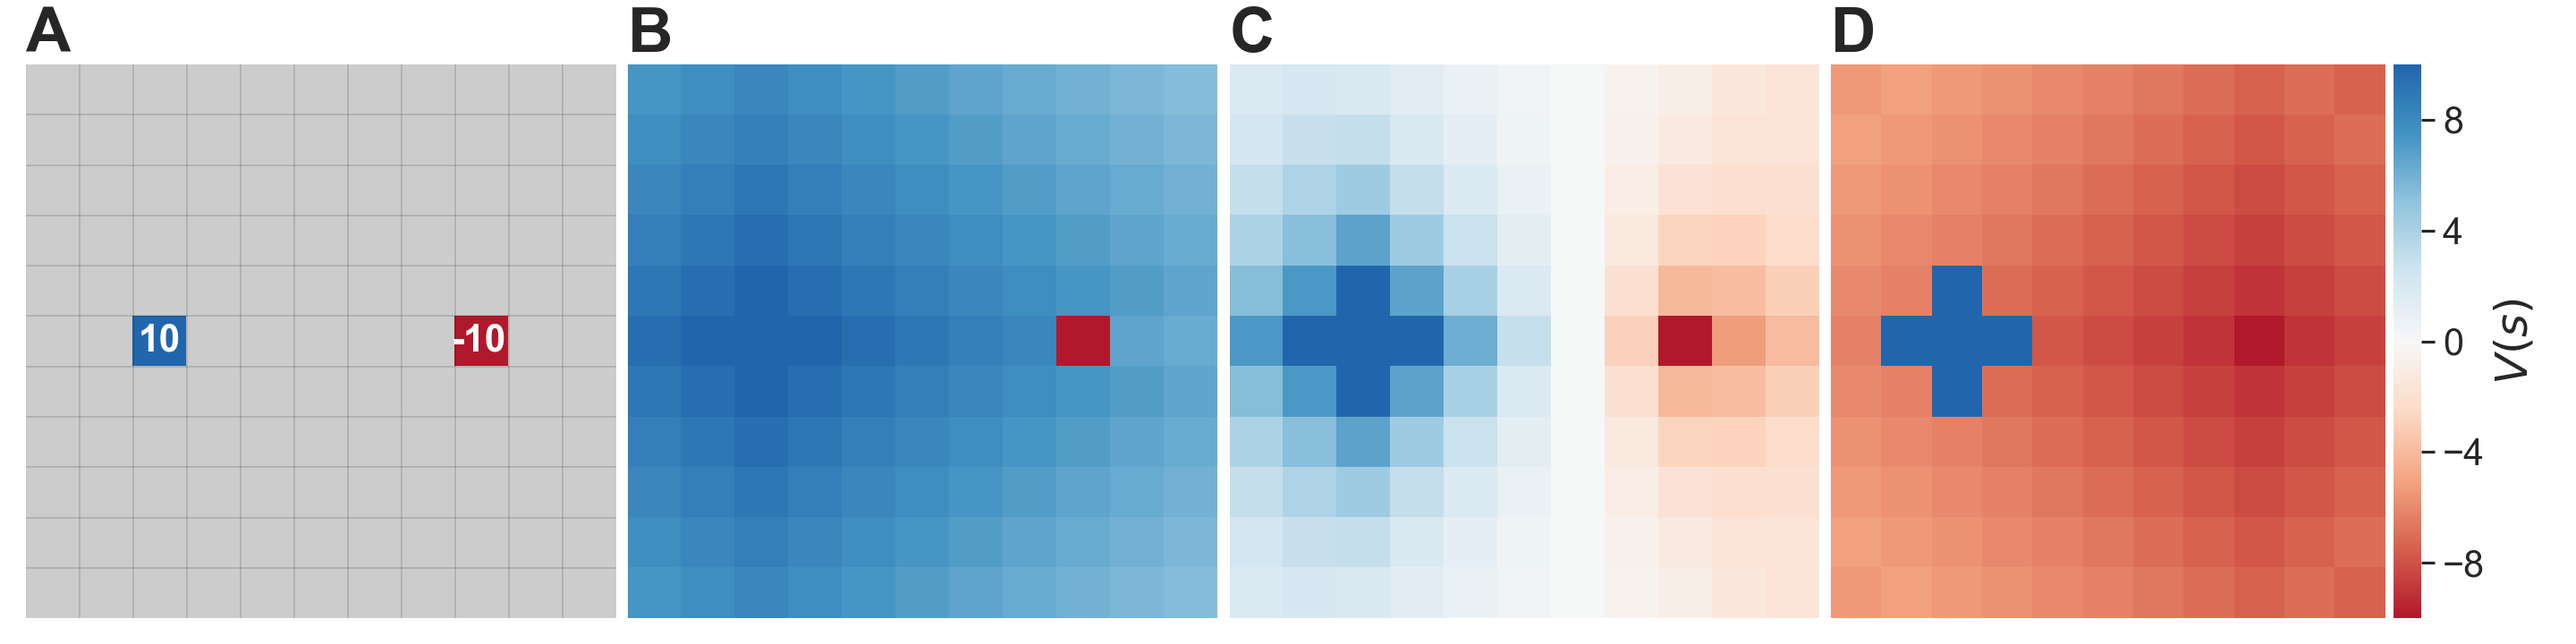
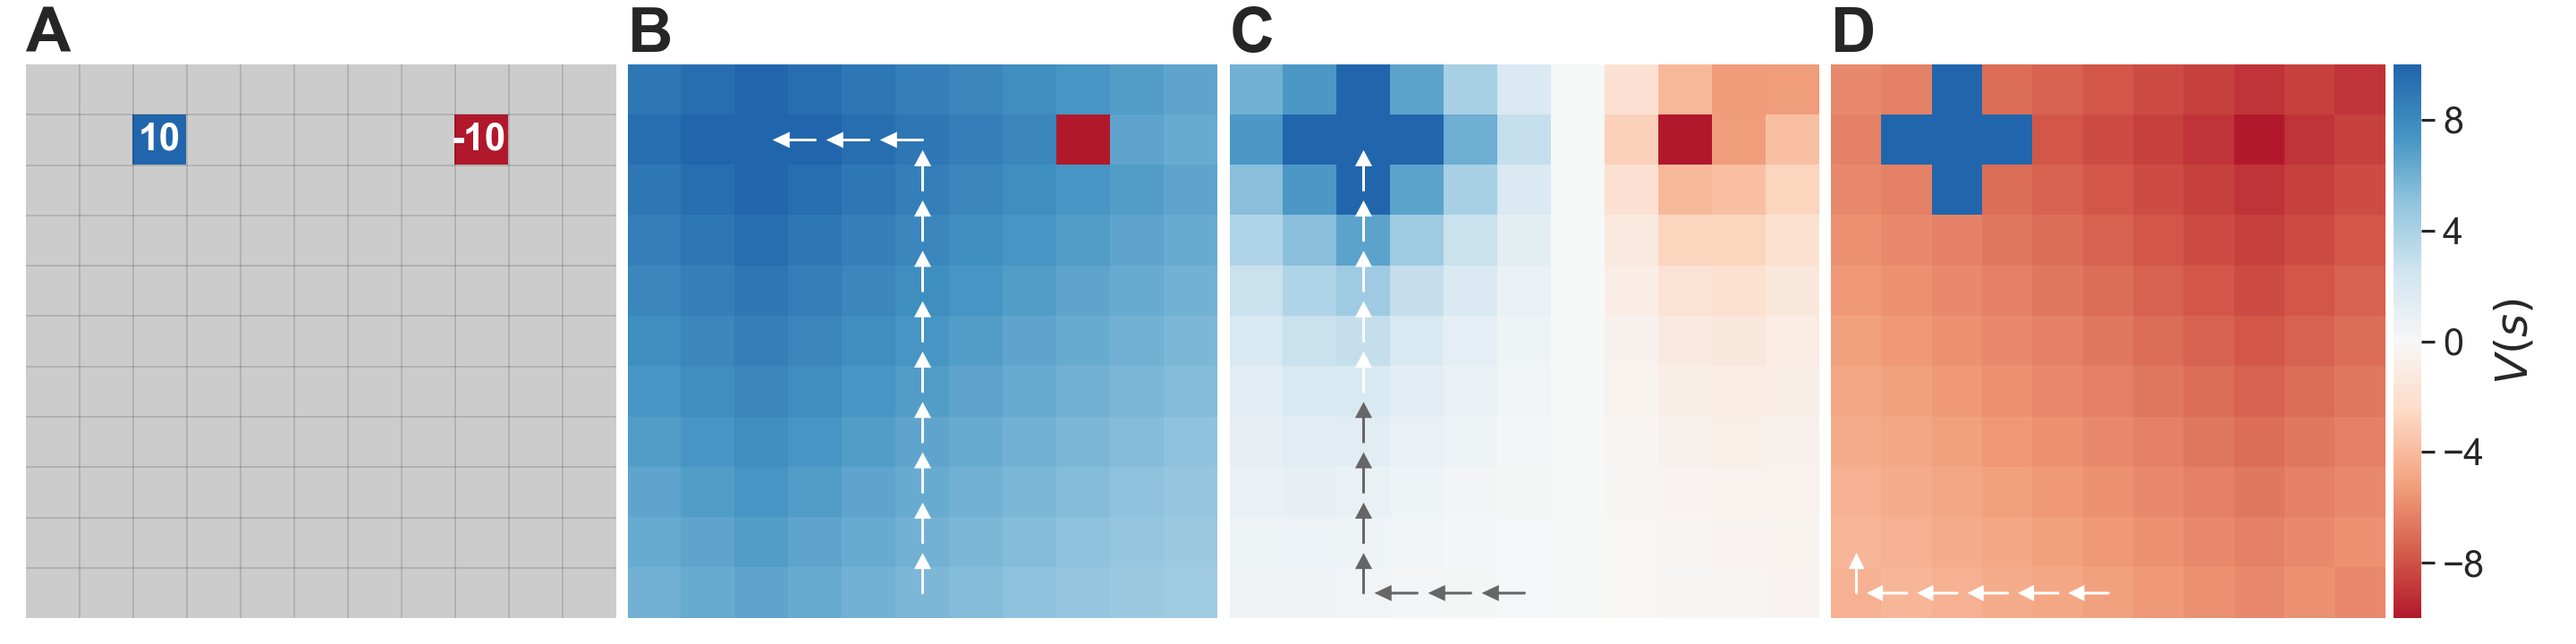
updates to figure 1

diff --git a/sisyphus/envs/_field.py b/sisyphus/envs/_field.py
@@ -11,16 +11,16 @@ class OpenField(GraphWorld):
         self.shape = self.grid.shape
 
         ## Define start/terminal states.
-        start = 5
-        terminal = np.array([57,63])
+        start = 115
+        terminal = np.array([13,19])
 
         ## Define one-step transition matrix.
         T = grid_to_adj(self.grid, terminal)
 
         ## Define rewards.
         R = 0 * np.ones_like(T)               # Majority transitions
-        R[:,57] =  10                         # Reward transition
-        R[:,63] = -10                         # Punishment transition
+        R[:,13] =  10                         # Reward transition
+        R[:,19] = -10                         # Punishment transition
         R[terminal,terminal] = 0              # Terminal transitions
         R *= T
 
@@ -71,7 +71,7 @@ class OpenField(GraphWorld):
 
         ## Define grid.
         grid = np.zeros((11, 11))    # Viable states
-        grid[5,[2,-3]] = [1, 2]      # Reward/shock states
+        grid[1,[2,-3]] = [1, 2]      # Reward/shock states
 
         ## Define colormap.
         cmap = ListedColormap([grid_color, reward_color, shock_color])
@@ -87,7 +87,49 @@ class OpenField(GraphWorld):
         ## Annotate.
         if annot:
             if annot_kws is None: annot_kws = dict()
-            ax.text(2.5,5.5,reward,ha='center',va='center',**annot_kws)
-            ax.text(8.45,5.5,shock,ha='center',va='center',**annot_kws)
+            ax.text(2.5,1.5,reward,ha='center',va='center',**annot_kws)
+            ax.text(8.45,1.5,shock,ha='center',va='center',**annot_kws)
         
+        return ax
+    
+    def plot_policy(self, ax, pi, color='w', head_width=0.25, head_length=0.25):
+        """Plot agent policy on grid world.
+
+        Parameters
+        ----------
+        ax : matplotlib Axes
+            Axes in which to draw the plot.
+        pi : array
+            Agent policy, i.e. ordered visitation of states.
+        color : str, list
+            Color(s) of arrow.
+        head_width : float (default=0.25)
+            Width of the arrow head.
+        head_length : float (default=0.25)
+            Length of the arrow head.
+
+        Returns
+        -------
+        ax : matplotlib Axes
+            Axes in which to draw the plot.
+        """
+
+        ## Error-catching.
+        if isinstance(color, str):
+            color = [color] * len(pi)
+            
+        ## Iteratively plot arrows.
+        for i in range(len(pi)-1):
+
+            ## Identify S, S' coordinates.
+            y1, x1 = np.where(self.grid==pi[i])
+            y2, x2 = np.where(self.grid==pi[i+1])
+
+            ## Define arrow coordinates.
+            x, y = int(x1) + 0.5, int(y1) + 0.5
+            dx, dy = 0.5*int(x2-x1), 0.5*int(y2-y1)
+            
+            ## Plot.
+            ax.arrow(x, y, dx, dy, color=color[i], head_width=head_width, head_length=head_length)
+            
         return ax
